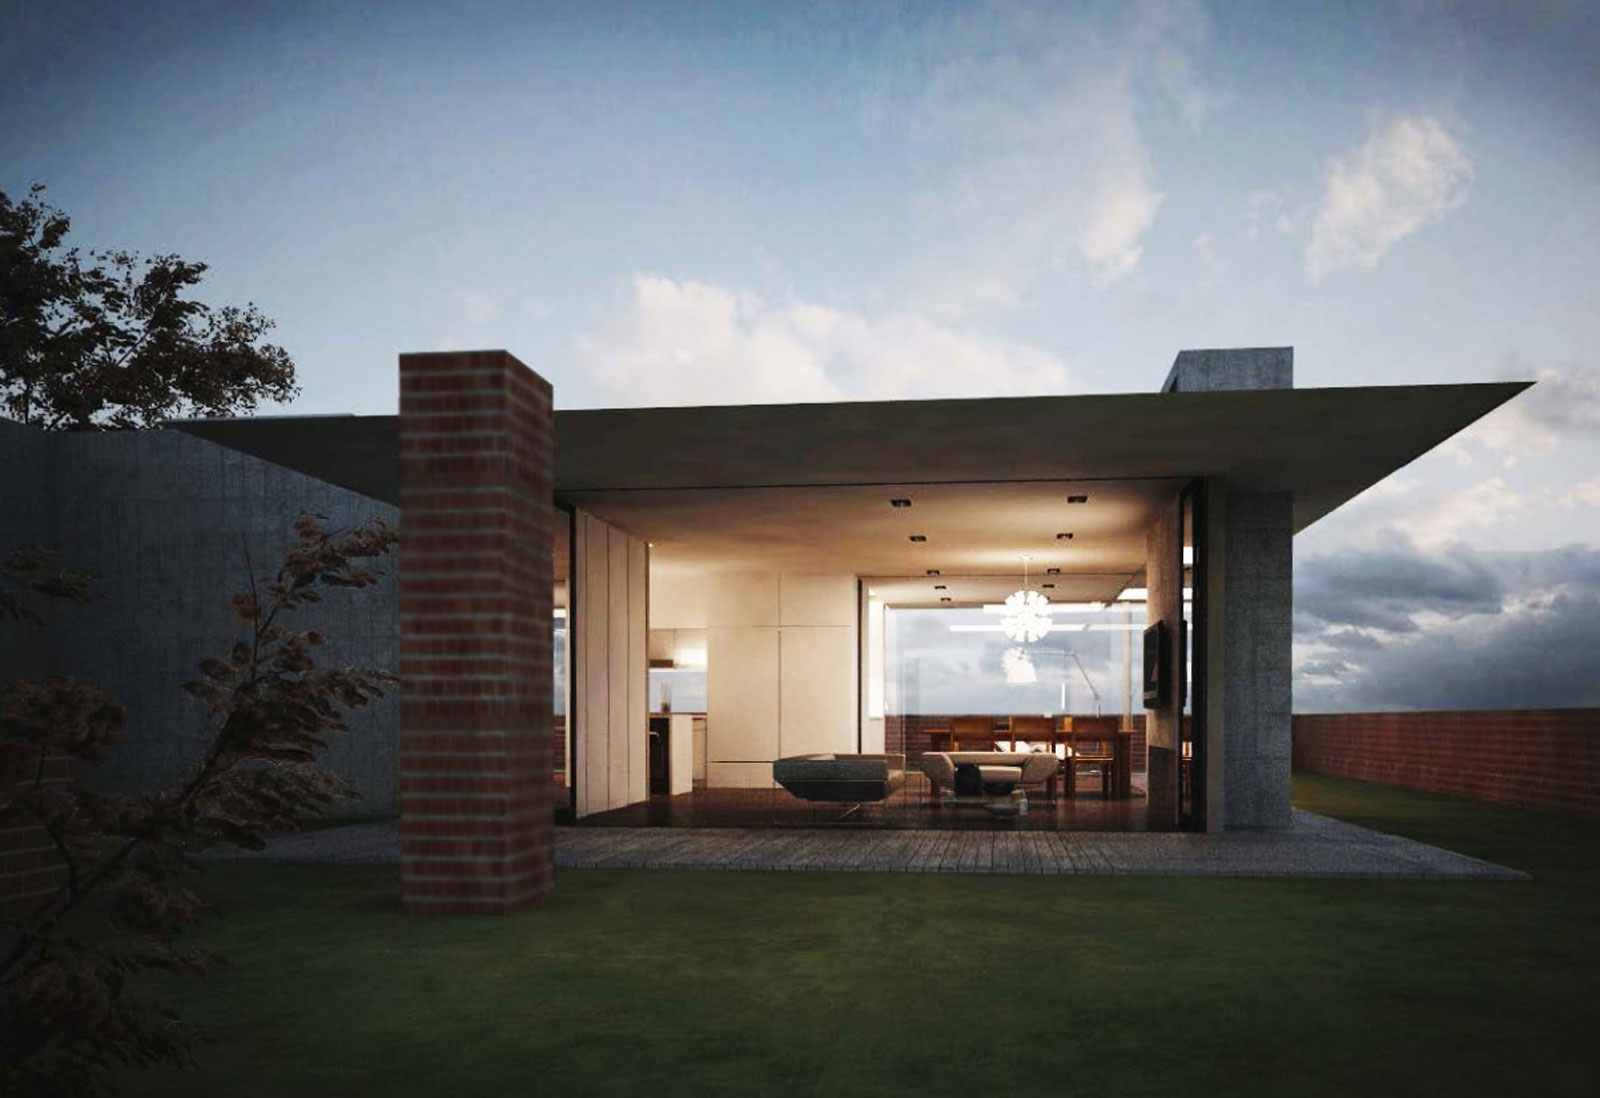
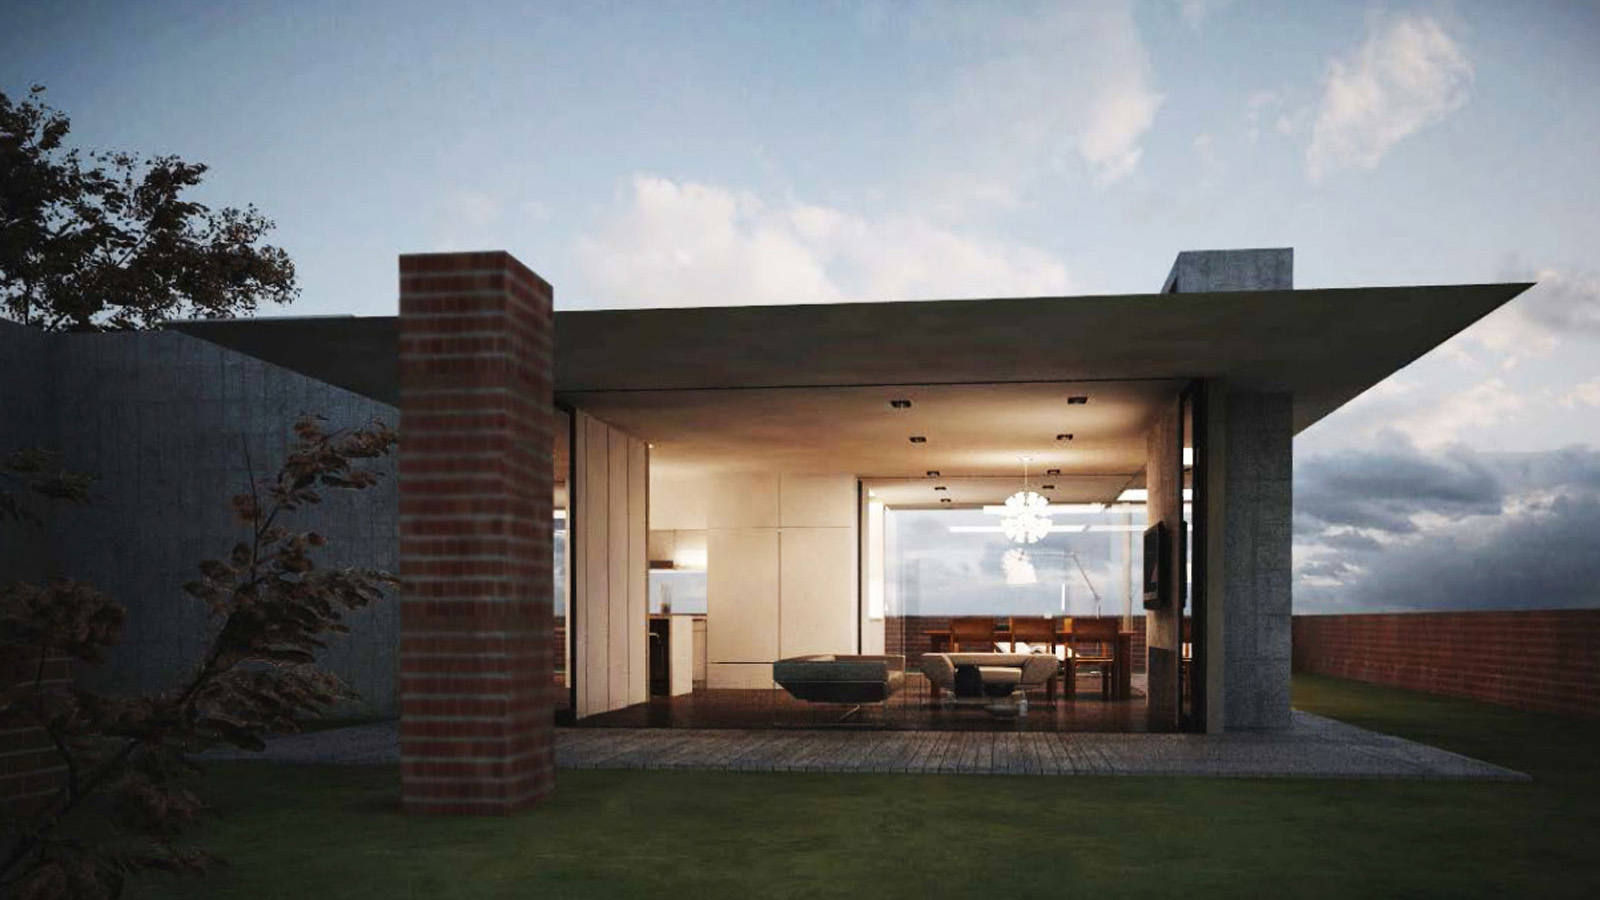
carousel img cropped

diff --git a/work.html b/work.html
@@ -62,7 +62,7 @@
         <!-- /.container-fluid -->
     </nav>
 
-    <div class="container-fluid" id="work">
+    <div class="container-fluid">
         <div class="row">
             <div class="col-xs-12 col-xs-offset-0 col-sm-9 col-sm-offset-3" id="carouselcontainer">
                 <div id="carousel-example-generic" class="carousel slide" data-ride="carousel">

diff --git a/custom.css b/custom.css
@@ -271,10 +271,6 @@ h3 {
     margin:0 0 5em 0;
 }
 
-#work #carousel-example-generic img{
-    height: 80%;
-}
-
 #work #carouselcontainer{
     padding: 0;
 }
